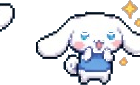
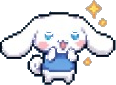
fix(sprites): restore complete Cinnamoroll ears, clean boundaries, and support wide aspect ratio

diff --git a/src/components/BackgroundBuddies.tsx b/src/components/BackgroundBuddies.tsx
@@ -368,7 +368,7 @@ export const BackgroundBuddies: React.FC = () => {
                   <img
                     src={gifSrc}
                     alt={`${cfg.name} (${buddy.currentAction})`}
-                    className="w-14 h-14 sm:w-20 sm:h-20 object-contain drop-shadow-[0_4px_8px_rgba(0,0,0,0.12)] image-pixelated pointer-events-none"
+                    className="h-14 sm:h-20 w-auto max-w-[90px] sm:max-w-[125px] object-contain drop-shadow-[0_4px_8px_rgba(0,0,0,0.12)] image-pixelated pointer-events-none"
                     loading="eager"
                   />
                 </div>
